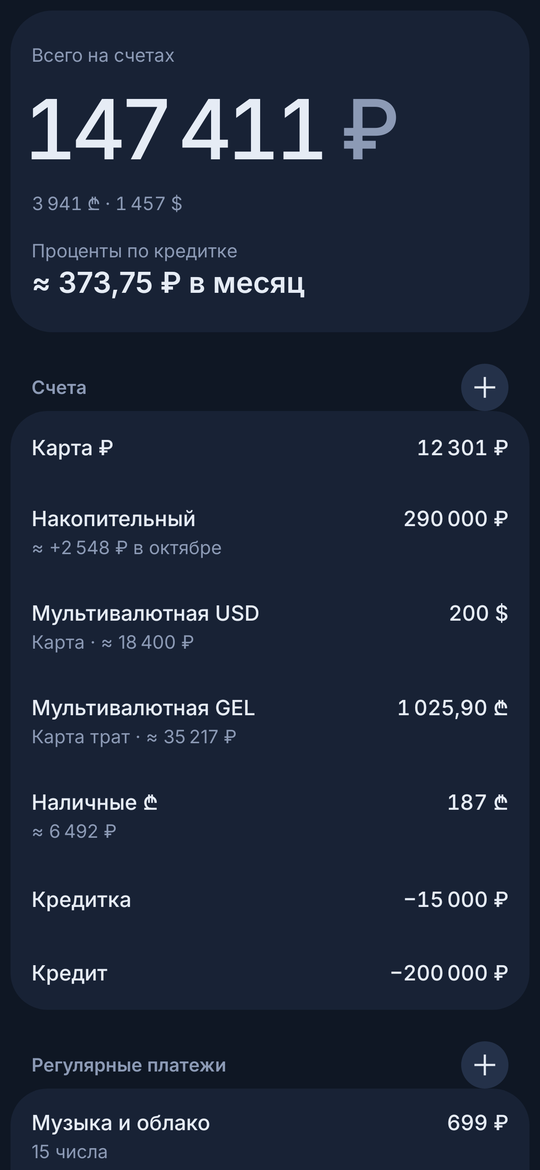
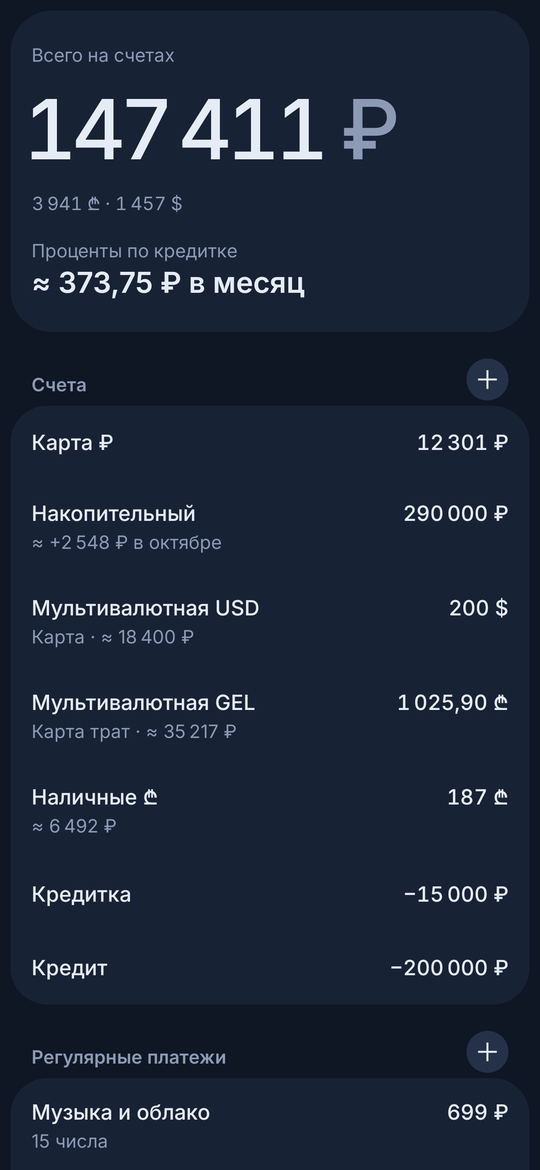
Group headers: the + keeps the label's height and lines up with the amounts
Fix 9 of docs/tasks/amount-pad.md.

diff --git a/app/src/main/java/sh/aminov/golda/ui/Kit.kt b/app/src/main/java/sh/aminov/golda/ui/Kit.kt
@@ -1,5 +1,6 @@
 package sh.aminov.golda.ui
 
+import androidx.compose.foundation.layout.wrapContentHeight
 import androidx.compose.ui.platform.LocalFocusManager
 import androidx.compose.foundation.gestures.detectTapGestures
 import androidx.compose.ui.input.pointer.pointerInput
@@ -299,7 +300,9 @@ fun GroupLabel(text: String, modifier: Modifier = Modifier, supporting: String? 
             Spacer(Modifier.weight(1f))
             trailing?.let {
                 Spacer(Modifier.width(Gap.s))
-                it()
+                // The label's height stays the label's: a round action (48 dp to touch) hangs over the
+                // row's air instead of pushing the card below away.
+                Box(Modifier.height(32.dp).wrapContentHeight(unbounded = true), contentAlignment = Alignment.CenterEnd) { it() }
             }
         }
         // Pulled up to the label and kept off the card below, as far as a label sits from its card.
@@ -1134,8 +1137,10 @@ const val ENTRY_FIGURE_SP = 58f
 fun AddAction(description: String, onClick: () -> Unit) {
     // A round tonal "+" at the group's end, Material's way of adding to a list: quieter than a word,
     // and the same in every group. [description] is what TalkBack says ("Добавить счёт").
-    FilledTonalIconButton(onClick = onClick, modifier = Modifier.size(36.dp)) {
-        Icon(painterResource(R.drawable.ic_add), description, Modifier.size(20.dp))
+    // A 32 dp circle, the label row's own height; lifted a little, so it keeps the same air above the card
+    // as the label does. Its right edge is the amounts' edge under it.
+    FilledTonalIconButton(onClick = onClick, modifier = Modifier.offset(y = (-4).dp).size(32.dp)) {
+        Icon(painterResource(R.drawable.ic_add), description, Modifier.size(18.dp))
     }
 }
 

diff --git a/docs/tasks/amount-pad.md b/docs/tasks/amount-pad.md
@@ -94,6 +94,8 @@
   и в онбординге; TalkBack: «Добавить счёт» / «Добавить платёж».
 - Правка 8: точка выбранного дня — цветом текста (`onSurface`), не главным цветом темы; подписи дней опущены
   (`Gap.m` вместо `Gap.s`), между точкой и датой воздух.
+- Правка 9: «+» — 32 dp (высота строки заголовка), приподнят на 4 dp, край — по краю сумм; `GroupLabel` держит
+  высоту 32 dp, кнопка (касание 48 dp) не раздвигает строку.
 
 ## Осталось
 - [x] Собрать правки (пользователь 04.11: «пока что всё»).
@@ -102,7 +104,7 @@
 - [x] Сделать 6: легенда-список (вариант А) под столбиками по дням в аналитике.
 - [x] Сделать 7: «+» (вариант А) вместо текста «Добавить» в заголовках групп.
 - [x] Сделать 8: воздух между точкой дня и подписью, точка нейтральнее.
-- [ ] Сделать 9: отступы заголовка с «+» и списка счетов.
+- [x] Сделать 9: отступы заголовка с «+» и списка счетов.
 - [ ] 10: макет карточек валют, выбор, сделать.
 - [ ] Проверить на dev: сверка (знак ±), перевод (сколько пришло), счёт (баланс, платёж, ставка, число).
 - [ ] Релиз (0.21.0), README/SPEC: про клавиатуру и калькулятор.
